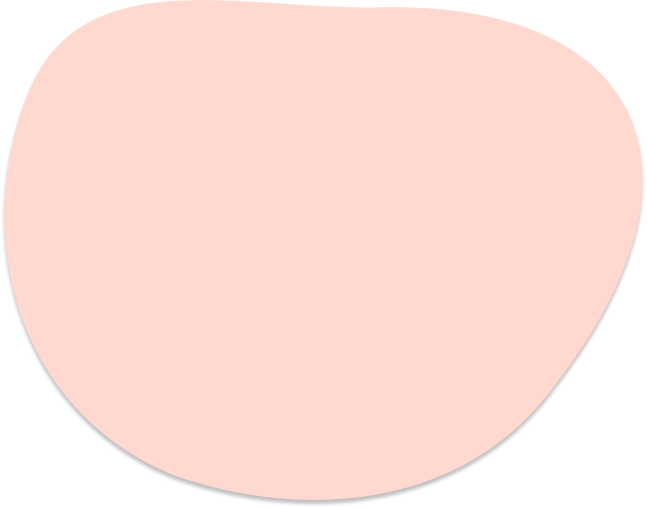
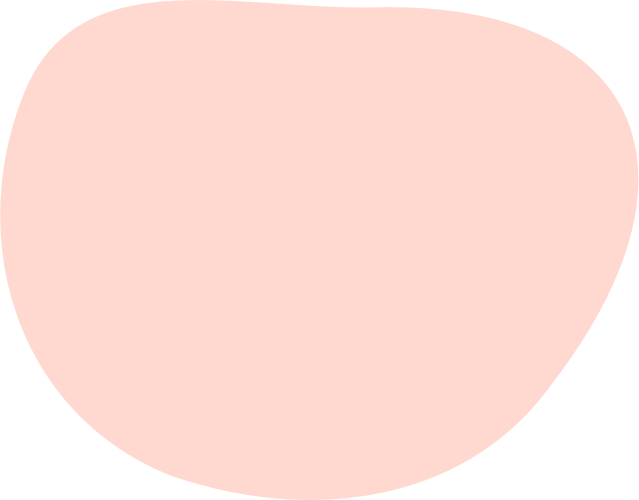
исправил круги

diff --git a/src/pages/Background/Background.module.css b/src/pages/Background/Background.module.css
@@ -1,7 +1,28 @@
 .box {
   position: relative;
+  height: 100vh;
   margin-left: auto;
   margin-right: auto;
+  overflow: hidden;
+}
+
+@media screen and (max-width: 767px) {
+  /* .box {
+    max-width: var(--mobile);
+    background-color: var(--color-white);
+  } */
+  .ellipseBlue {
+    display: none;
+  }
+  .ellipsePink {
+    display: none;
+  }
+}
+
+@media screen and (max-width: 1279px) {
+  .box {
+    overflow-y: scroll;
+  }
 }
 
 @media screen and (min-width: 320px) {
@@ -13,42 +34,34 @@
 @media screen and (min-width: 768px) {
   .box {
     background-color: var(--page-background-color);
-    background-image: url('../../images/background-images/EllipseBlue.png');
+    /* background-image: url('../../images/background-images/EllipseBlue.png');
     background-position: -140px 700px;
 
-    background-repeat: no-repeat;
-
-    height: 100vh;
+    background-repeat: no-repeat; */
+    /* width: 100vh; */
+    /* height: 100vh; */
   }
-}
-
-@media screen and (min-width: 1280px) {
-  .box {
-    background-image: url('../../images/background-images/EllipseBlue.png');
-    background-position: -140px 388px;
-  }
-
-  .box::before {
-    display: block;
-    content: '';
-
+  .ellipseBlue {
     position: absolute;
-
-    top: 0;
-    right: 0;
-
-    width: 53.3%;
-
-    height: 100vh;
-
-    z-index: 1;
-    background-color: var(--background-color);
-    backdrop-filter: blur(50px);
+    left: -110px;
+    top: 700px;
+  }
+  .ellipsePink {
+    position: absolute;
+    left: 420px;
+    top: -110px;
   }
 }
 
-@media screen and (min-width: 768px) {
-  .box::after {
+/* @media screen and (min-width: 1280px) { */
+/* .box {
+    background-image: url('../../images/background-images/EllipseBlue.png');
+    background-position: calc(53% - 480px) 388px;
+  } */
+/* } */
+
+/* @media screen and (min-width: 768px) { */
+/* .box::after {
     display: block;
     content: '';
 
@@ -65,27 +78,45 @@
     background-repeat: no-repeat;
 
     z-index: 0;
-  }
+  } */
+/* } */
 
-  @media screen and (min-width: 1280px) {
-    .box::after {
-      background-position: 170px -118px;
-    }
+@media screen and (min-width: 1280px) {
+  /* .box::after {
+    background-position: 53% -118px;
+  } */
+  .box::before {
+    display: block;
+    content: '';
+    position: absolute;
+    top: 0;
+    right: 0;
+    width: 53.3%;
+    height: 100vh;
+    z-index: 1;
+    background-color: var(--background-color);
+    backdrop-filter: blur(50px);
+  }
+  .ellipseBlue {
+    position: absolute;
+    left: calc(53% - 820px);
+    top: 385px;
+  }
+  .ellipsePink {
+    position: absolute;
+    left: calc(53% + 55px);
+    top: -153px;
   }
 }
 
 .isLoggin.box::before {
   display: block;
   content: '';
-
   position: absolute;
-
   top: 0;
   right: 0;
-
   width: 100%;
   height: 100vh;
-
   z-index: 1;
   background-color: var(--background-color);
   backdrop-filter: blur(50px);

diff --git a/src/pages/LoginPage/LoginPage.jsx b/src/pages/LoginPage/LoginPage.jsx
@@ -24,29 +24,27 @@ const LoginPage = () => {
 
   // let from = location.state?.from?.pathname || "/";
   return (
-    <div>
-      <Container className={s.container}>
-        <div className={s.loginBox}>
-          <div className={s.titleBox}>
-            {isTablet && (
-              <img className={s.img} src={PictureTablet} alt="boy" />
-            )}
-            {isDesktop && (
-              <img
-                className={s.img}
-                src={PictureDesctop}
-                alt="парень с тележкой"
-              />
-            )}
+    // <div>
+    <Container className={s.container}>
+      <div className={s.loginBox}>
+        <div className={s.titleBox}>
+          {isTablet && <img className={s.img} src={PictureTablet} alt="boy" />}
+          {isDesktop && (
+            <img
+              className={s.img}
+              src={PictureDesctop}
+              alt="парень с тележкой"
+            />
+          )}
 
-            <h1 className={s.title}>Finance App</h1>
-          </div>
-          <div className={s.subBox}>
-            <LoginForm classPosition={s.loginForm} />
-          </div>
+          <h1 className={s.title}>Finance App</h1>
         </div>
-      </Container>
-    </div>
+        <div className={s.subBox}>
+          <LoginForm classPosition={s.loginForm} />
+        </div>
+      </div>
+    </Container>
+    /*  </div> */
   );
 };
 

diff --git a/src/pages/Background/Background.jsx b/src/pages/Background/Background.jsx
@@ -1,5 +1,6 @@
 import s from './Background.module.css';
-
+import ellipseBlue from 'images/background-images/EllipseBlue.png';
+import ellipsePink from 'images/background-images/EllipsePink.png';
 import { useSelector } from 'react-redux';
 import { authSelectors } from 'redux/auth';
 
@@ -7,13 +8,12 @@ const Background = ({ children, className = '' }) => {
   const isLoggedIn = useSelector(authSelectors.getIsLoggedIn);
 
   return (
-    // <div className={s.colorBox}>
     <div className={`${s.box} ${className} ${isLoggedIn && s.isLoggin}`}>
-      {/* <div className={s.blueCircle}></div> */}
+      <img src={ellipseBlue} alt="EllipseBlue" className={s.ellipseBlue} />
+      <img src={ellipsePink} alt="EllipsePink" className={s.ellipsePink} />
 
       {children}
     </div>
-    // </div>
   );
 };
 

diff --git a/src/components/LoginForm/LoginForm.module.css b/src/components/LoginForm/LoginForm.module.css
@@ -15,7 +15,7 @@
   flex-direction: column;
   align-items: center;
   /* padding-top: 130px; */
-  padding-top: 40px;
+  padding-top: 43px;
   padding-bottom: 60px;
   /* padding-bottom: 60px; */
 
@@ -31,7 +31,7 @@
     width: 280px;
     min-height: 568px;
     text-align: center;
-    padding-top: 190px;
+    padding-top: 116px;
     padding-bottom: 110px;
   }
 }

diff --git a/src/pages/LoginPage/LoginPage.module.css b/src/pages/LoginPage/LoginPage.module.css
@@ -10,9 +10,9 @@
 }
 
 @media screen and (min-width: 768px) {
-  .section {
+  /* .section {
     background-color: var(--page-background-color);
-  }
+  } */
   div .container {
     padding-left: 0;
     padding-right: 0;

diff --git a/src/components/RegistrationForm/RegistrationForm.module.css b/src/components/RegistrationForm/RegistrationForm.module.css
@@ -10,7 +10,7 @@
   align-items: center;
   /* padding-top: 130px;
   padding-bottom: 60px; */
-  padding-top: 40px;
+  padding-top: 43px;
   padding-bottom: 60px;
 
   width: 540px;
